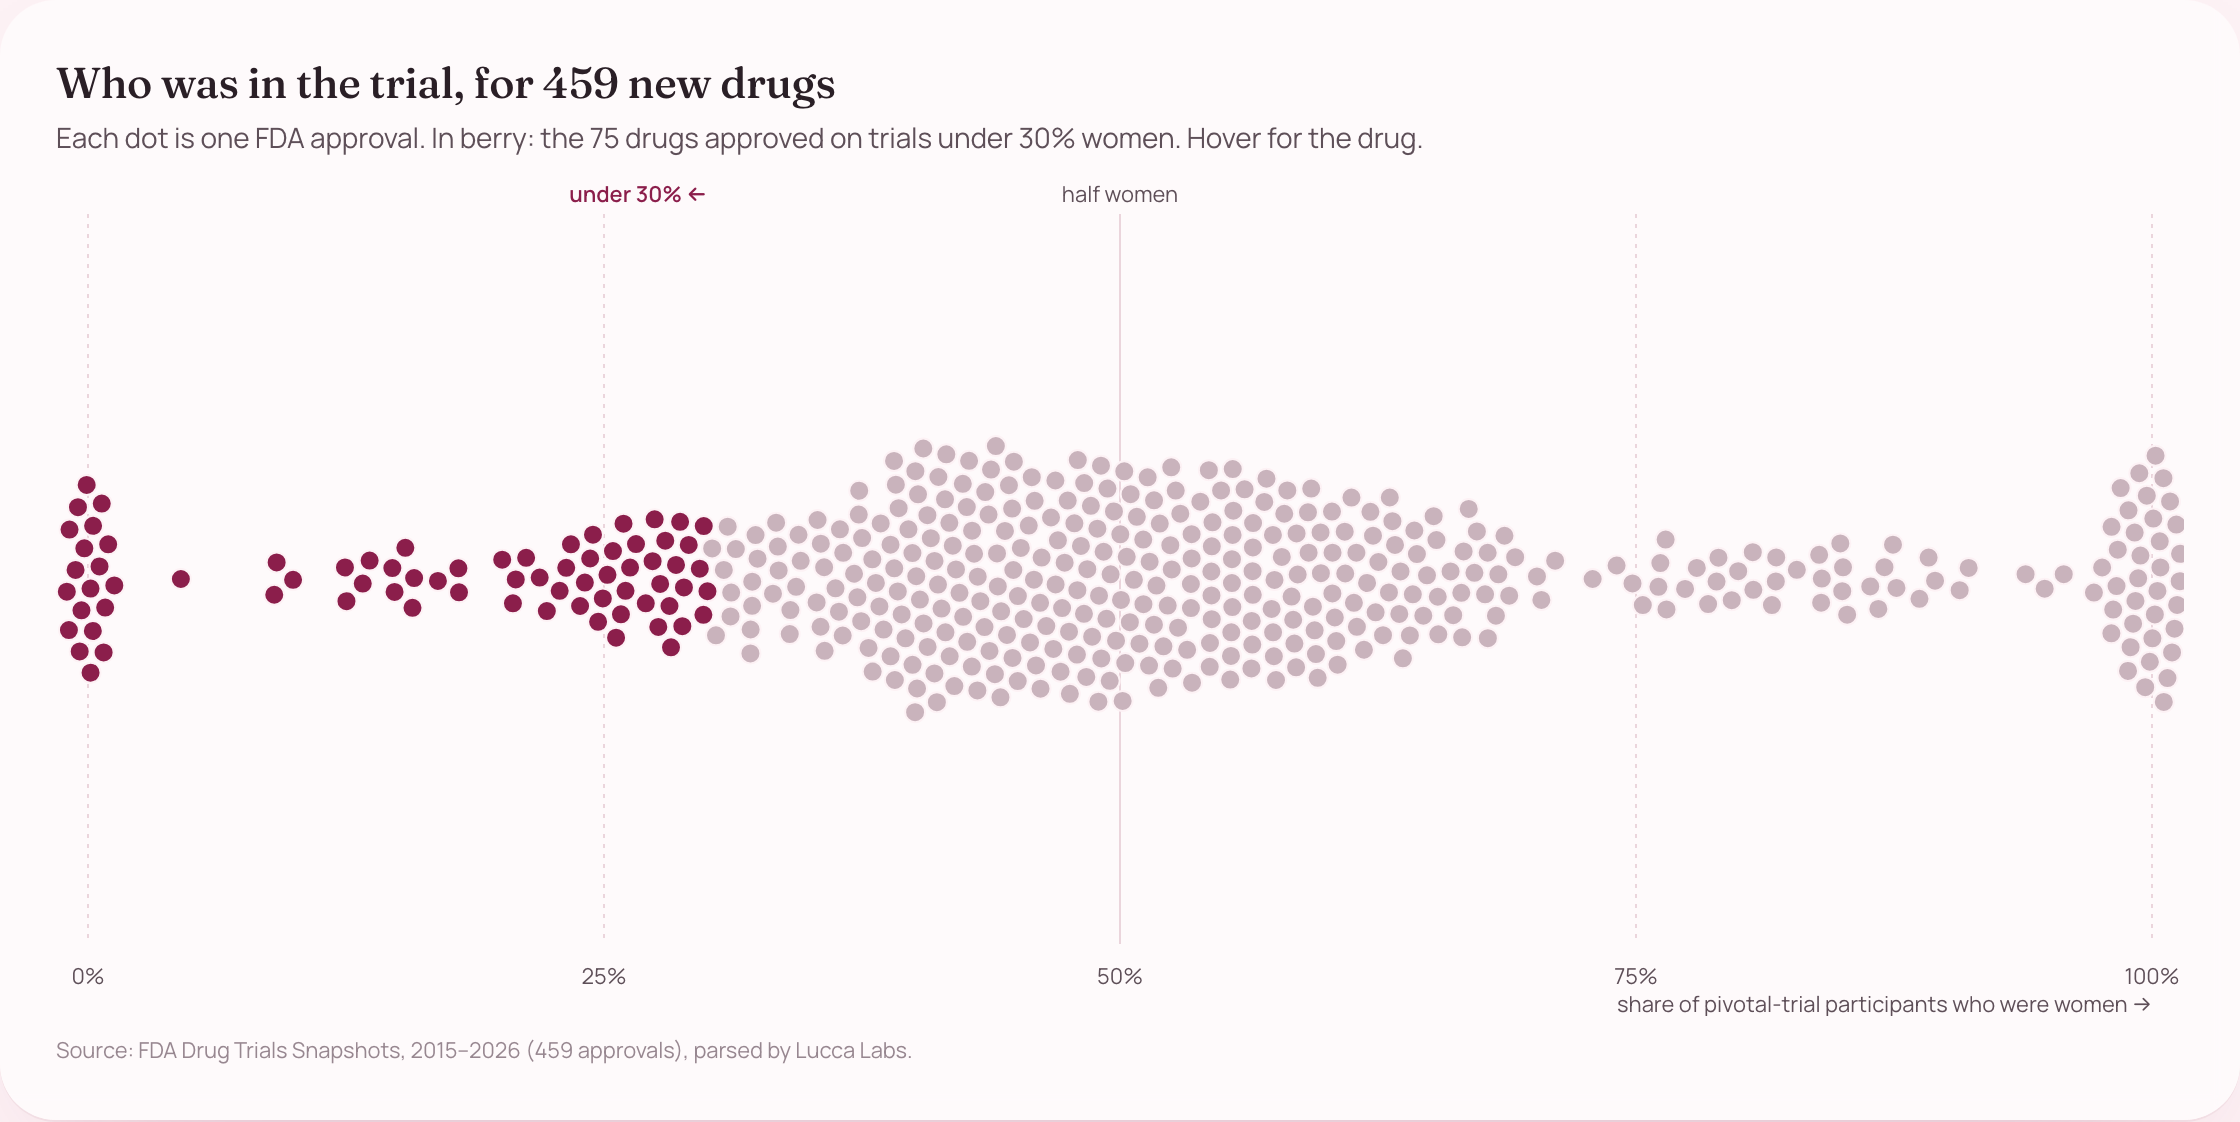
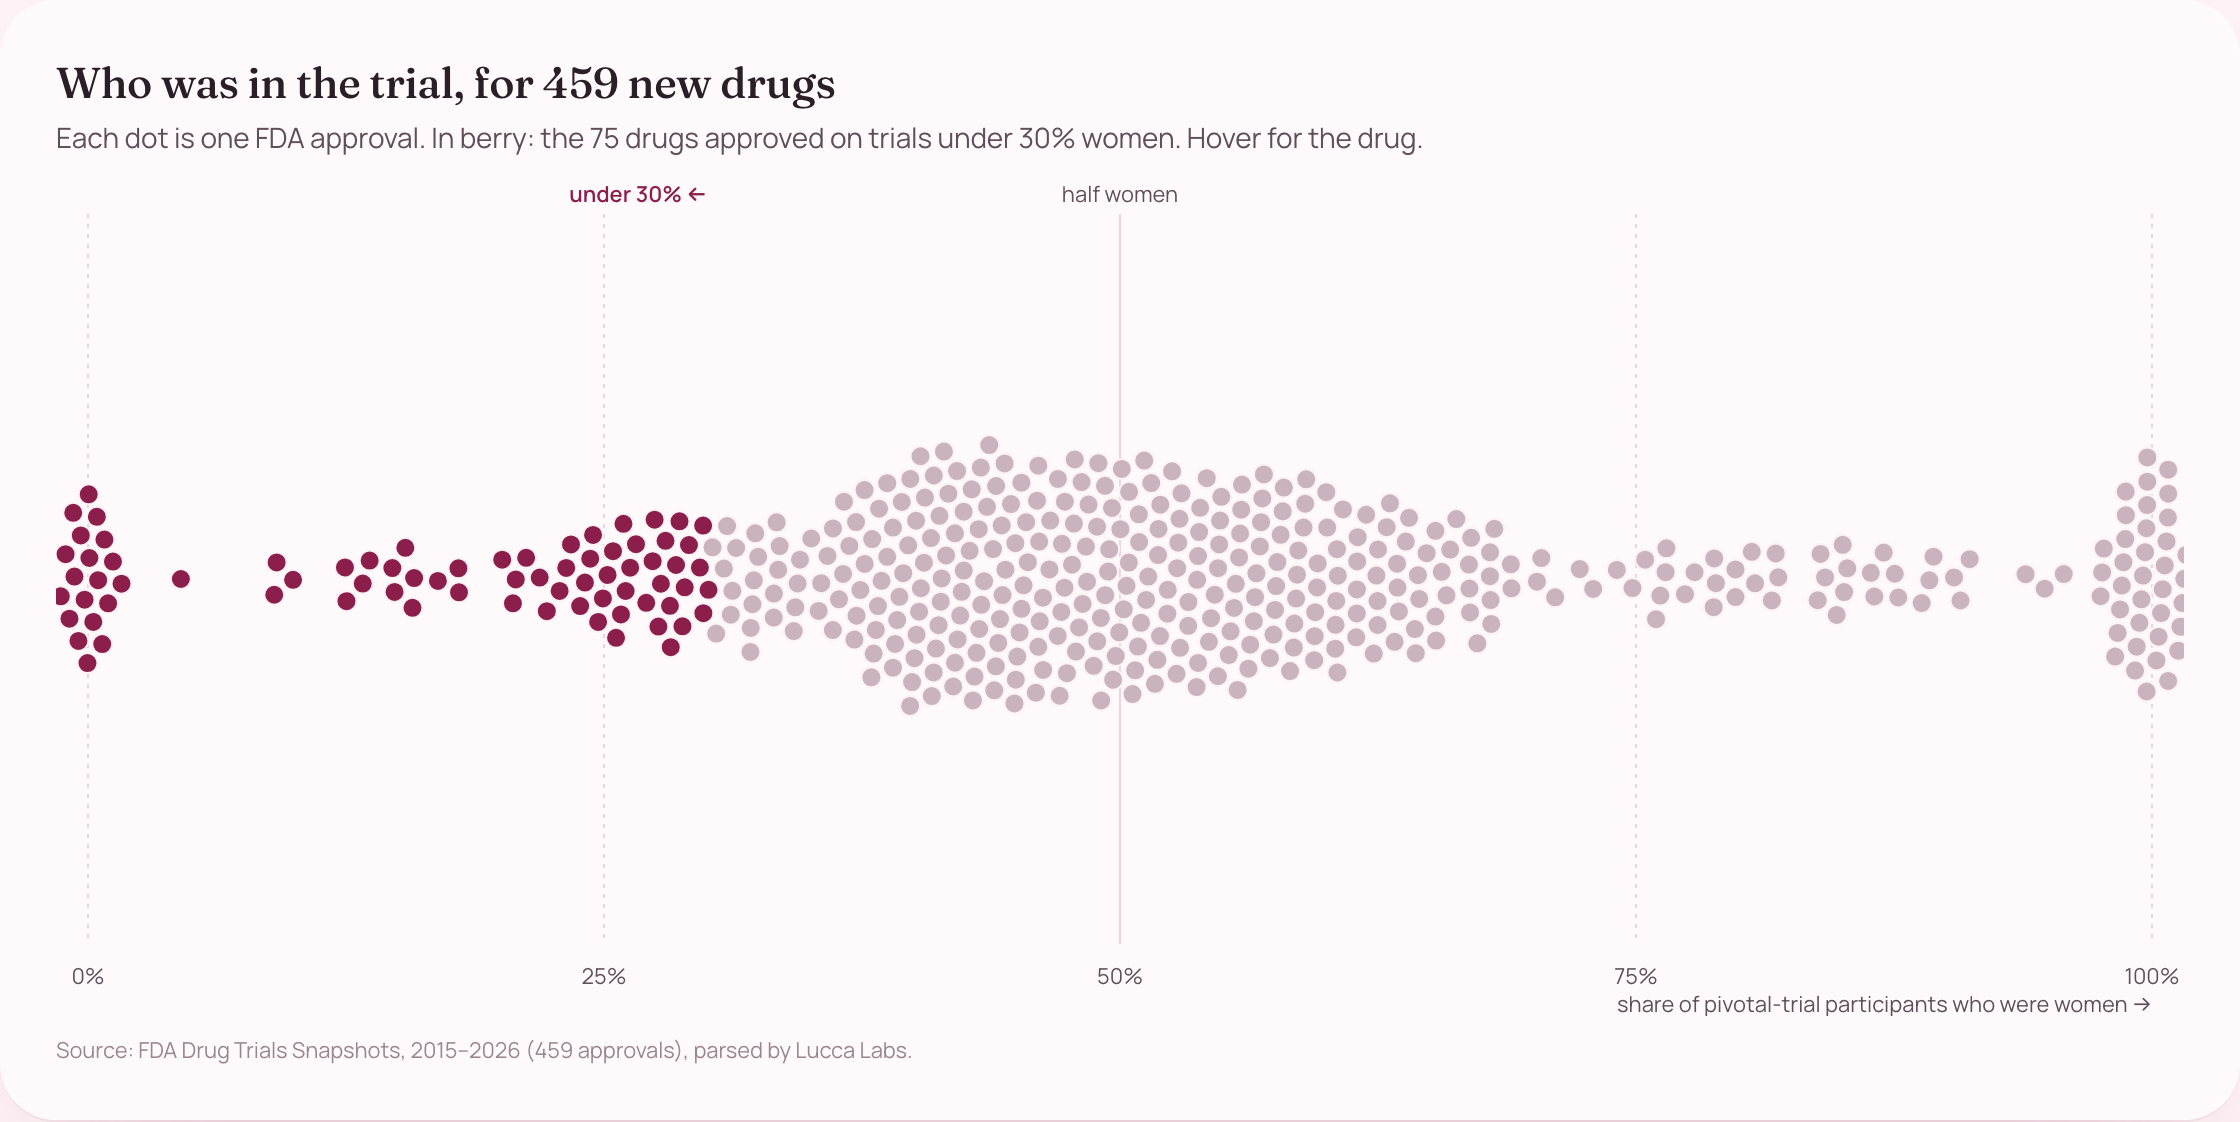
Parser: tolerate missing parenthesis and bare zero cells; data refreshed

Changed region(s): [[0.3125, 0.3743, 0.9062, 0.6551], [0.9375, 0.4055, 1.0, 0.6239], [0.0, 0.4367, 0.0625, 0.5927]]

diff --git a/pipeline/parse_tables.py b/pipeline/parse_tables.py
@@ -3,7 +3,7 @@ import re
 
 from html_tables import tables
 
-PAIR = re.compile(r"(\d[\d,]*)\s*\(\s*([\d.]+)\s*%?\s*\)")
+PAIR = re.compile(r"(\d[\d,]*)\s*\(\s*([\d.]+)\s*%?\s*\)?")  # tolerate a missing close paren
 FEM = re.compile(r"^\s*(female|females|women|woman|girls)\b", re.I)
 MAL = re.compile(r"^\s*(male|males|men|man|boys)\b", re.I)
 EXCLUDE = re.compile(r"efficacy|subgroup|adverse|response|endpoint|outcome|\bORR\b|hazard|\bHR\b|incidence|events|side effect|change from|percent change|by race|by age|by ethnicity|race\b.*number of patients|weight|dose|mortality|survival|death|cure|remission|responders", re.I)
@@ -14,8 +14,12 @@ def _pairs_in(cells):
     """All (n, pct) values found across cells, in column order."""
     out = []
     for c in cells:
-        for n, pct in PAIR.findall(c):
-            out.append((int(n.replace(",", "")), float(pct)))
+        found = PAIR.findall(c)
+        if found:
+            for n, pct in found:
+                out.append((int(n.replace(",", "")), float(pct)))
+        elif re.fullmatch(r"\s*(0|-|–|—)\s*", c):
+            out.append((0, 0.0))  # an empty arm, e.g. '0' or '-'
     return out
 
 
